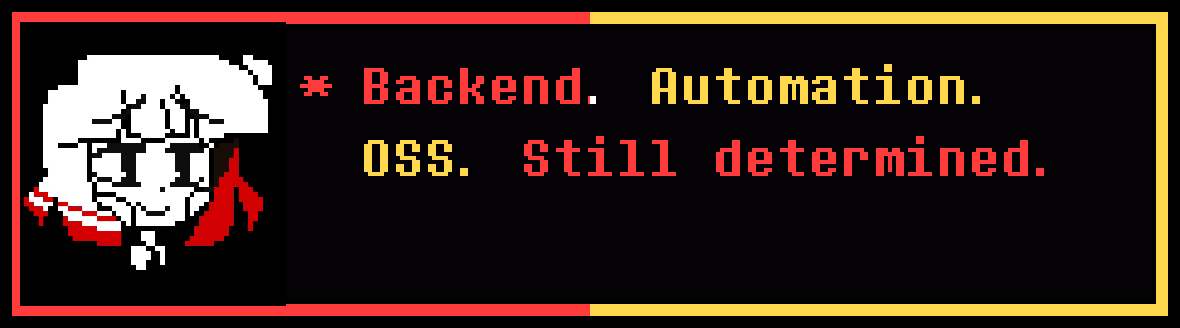
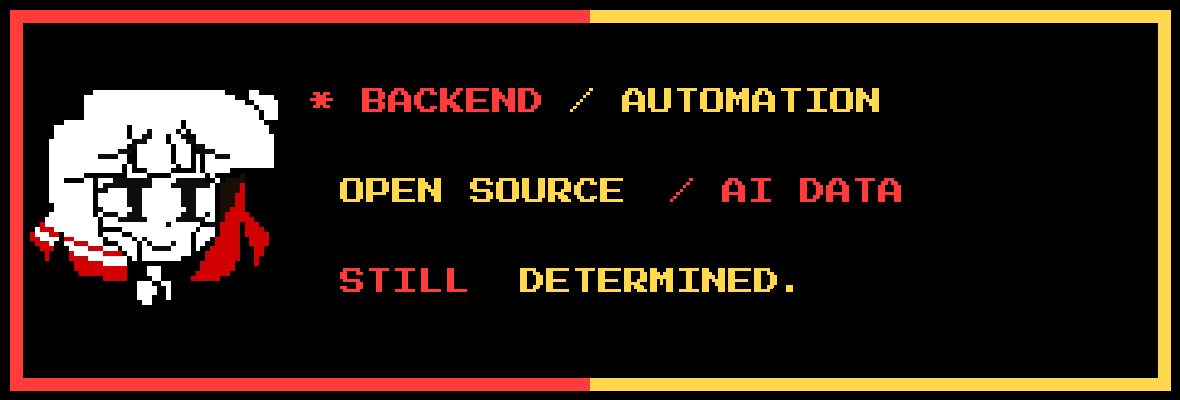
Refine animated dialogue into compact three-line layout

diff --git a/readme.md b/readme.md
@@ -10,7 +10,7 @@
 </p>
 
 <div align="center">
-  <img src="assets/undertale-dialogue-ry-hq.gif" alt="Animated red and yellow Chara dialogue box: Backend. Automation. OSS. Still determined." />
+  <img src="assets/undertale-dialogue-ry-hq.gif" width="760" alt="Animated three-line red and yellow Chara dialogue box: Backend and automation; open source and AI data; still determined." />
 </div>
 
 <p align="center">
